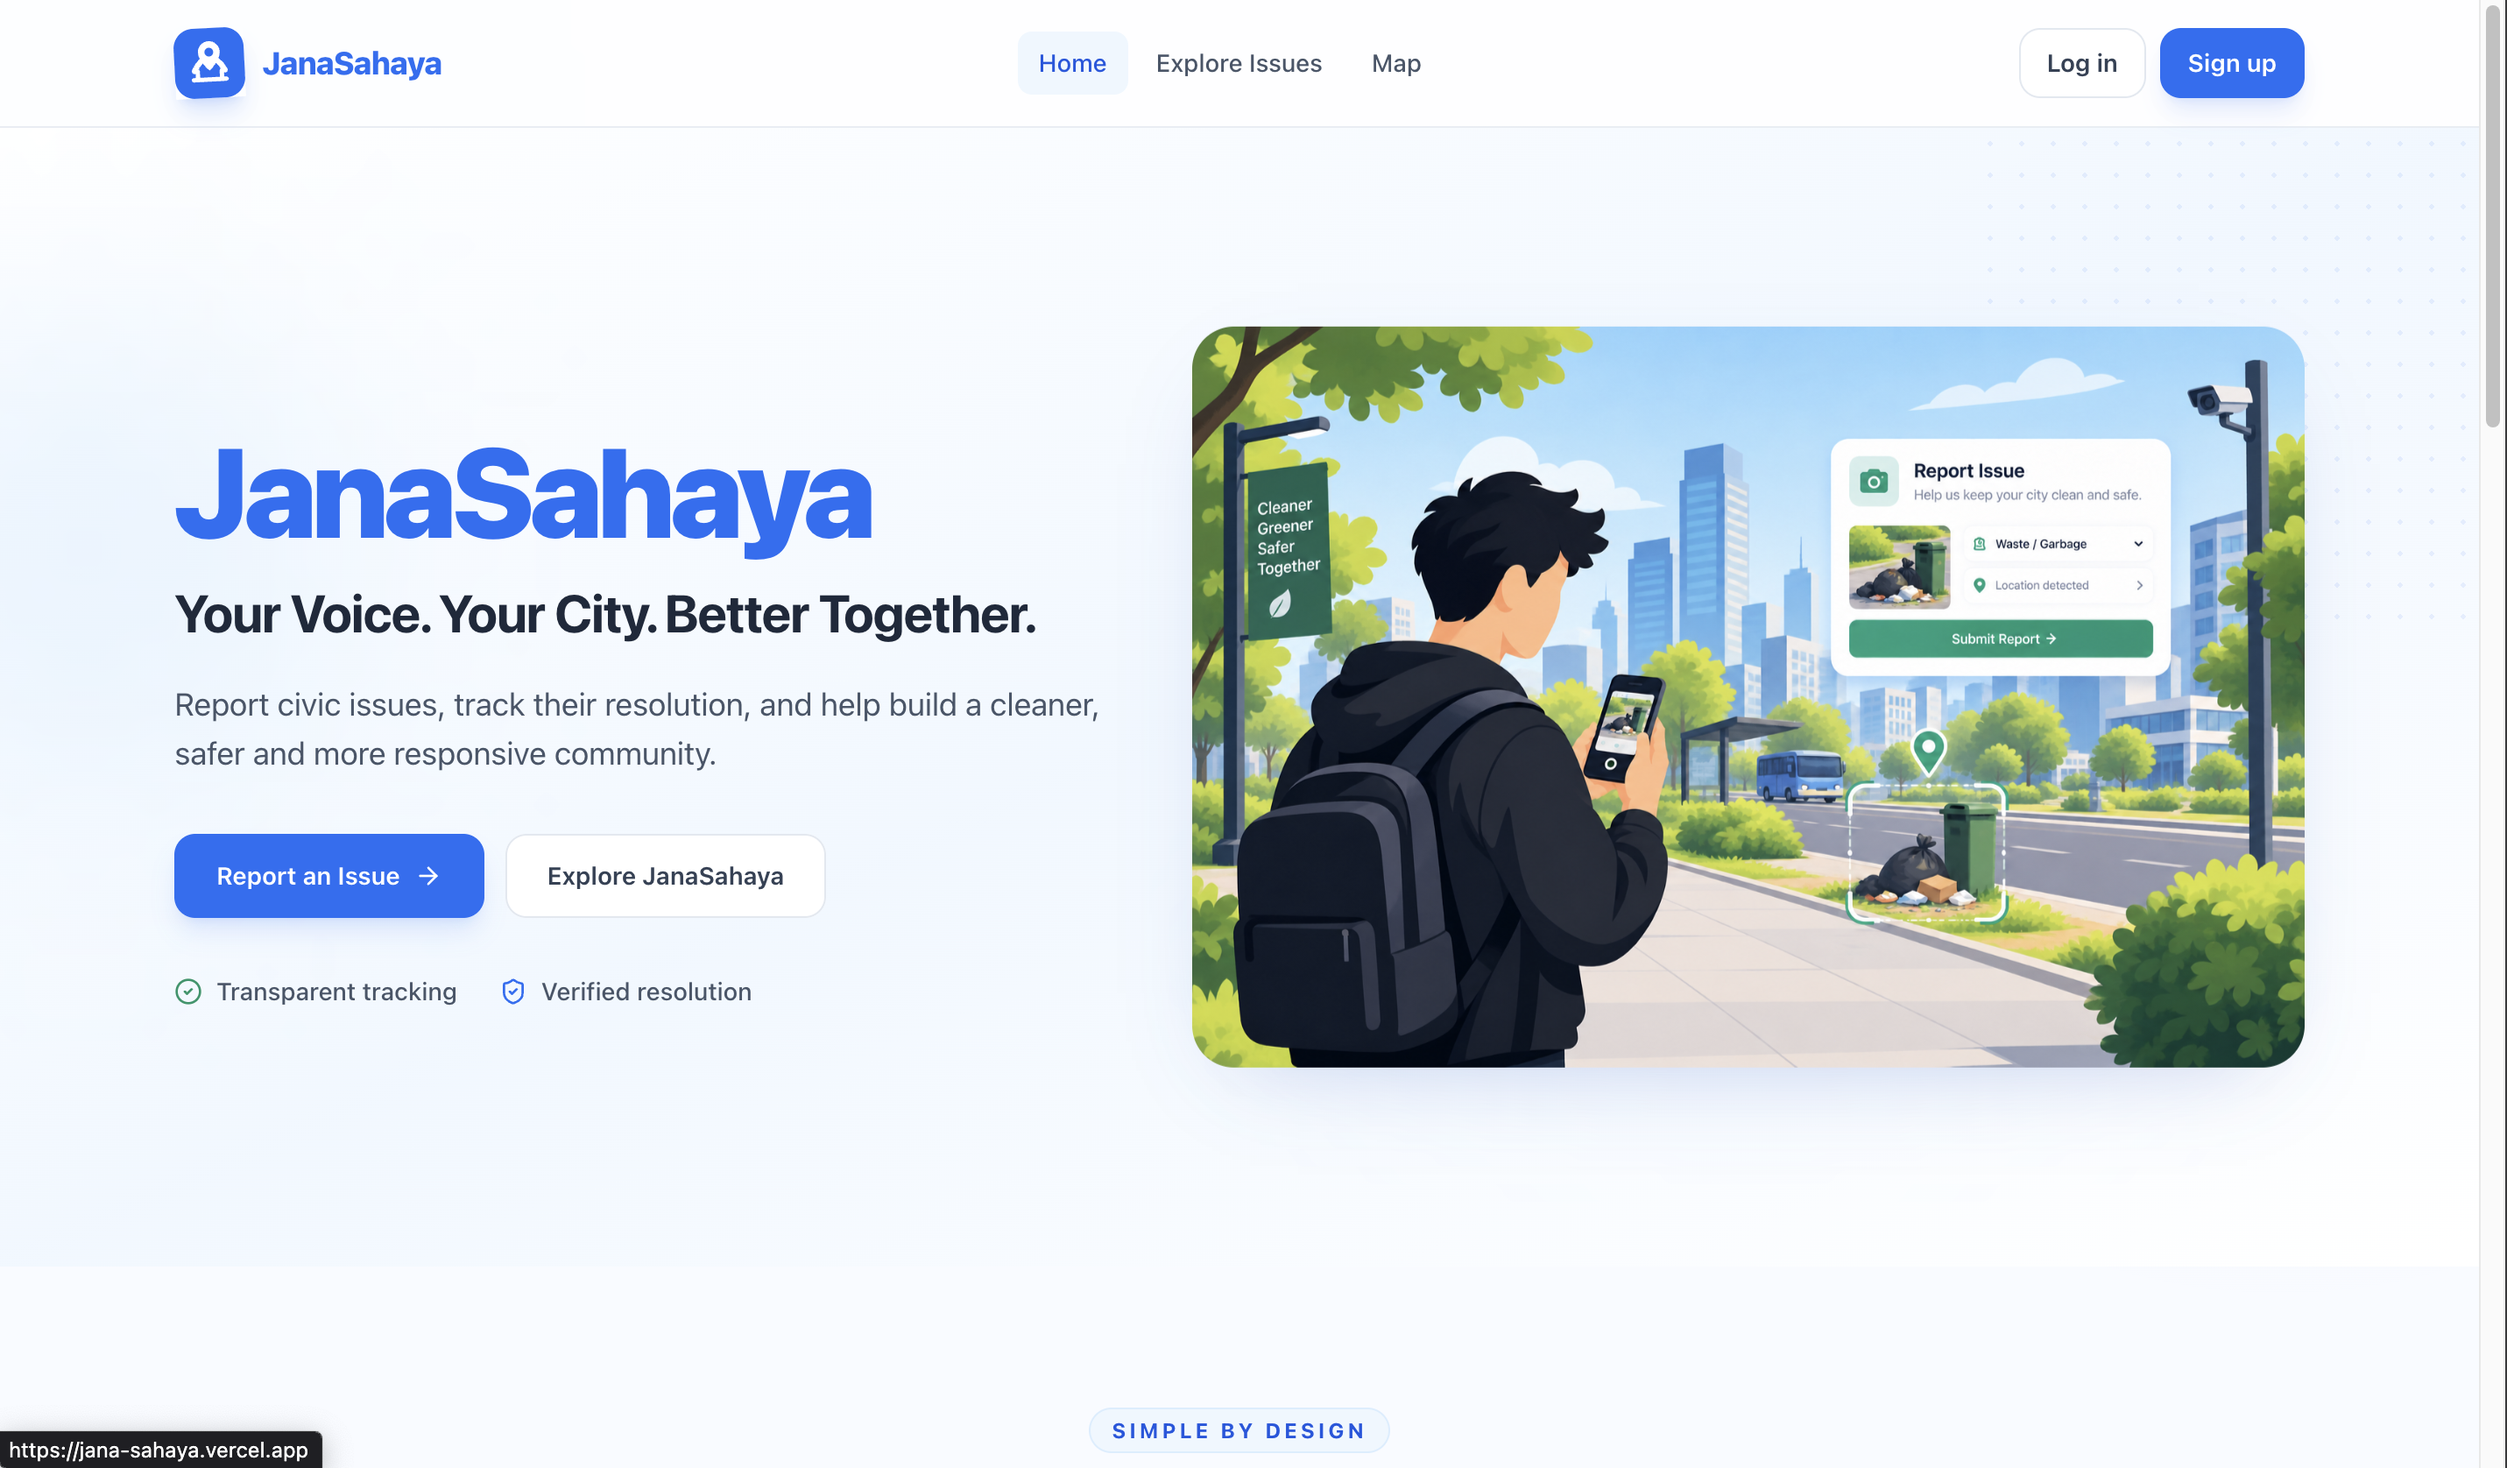
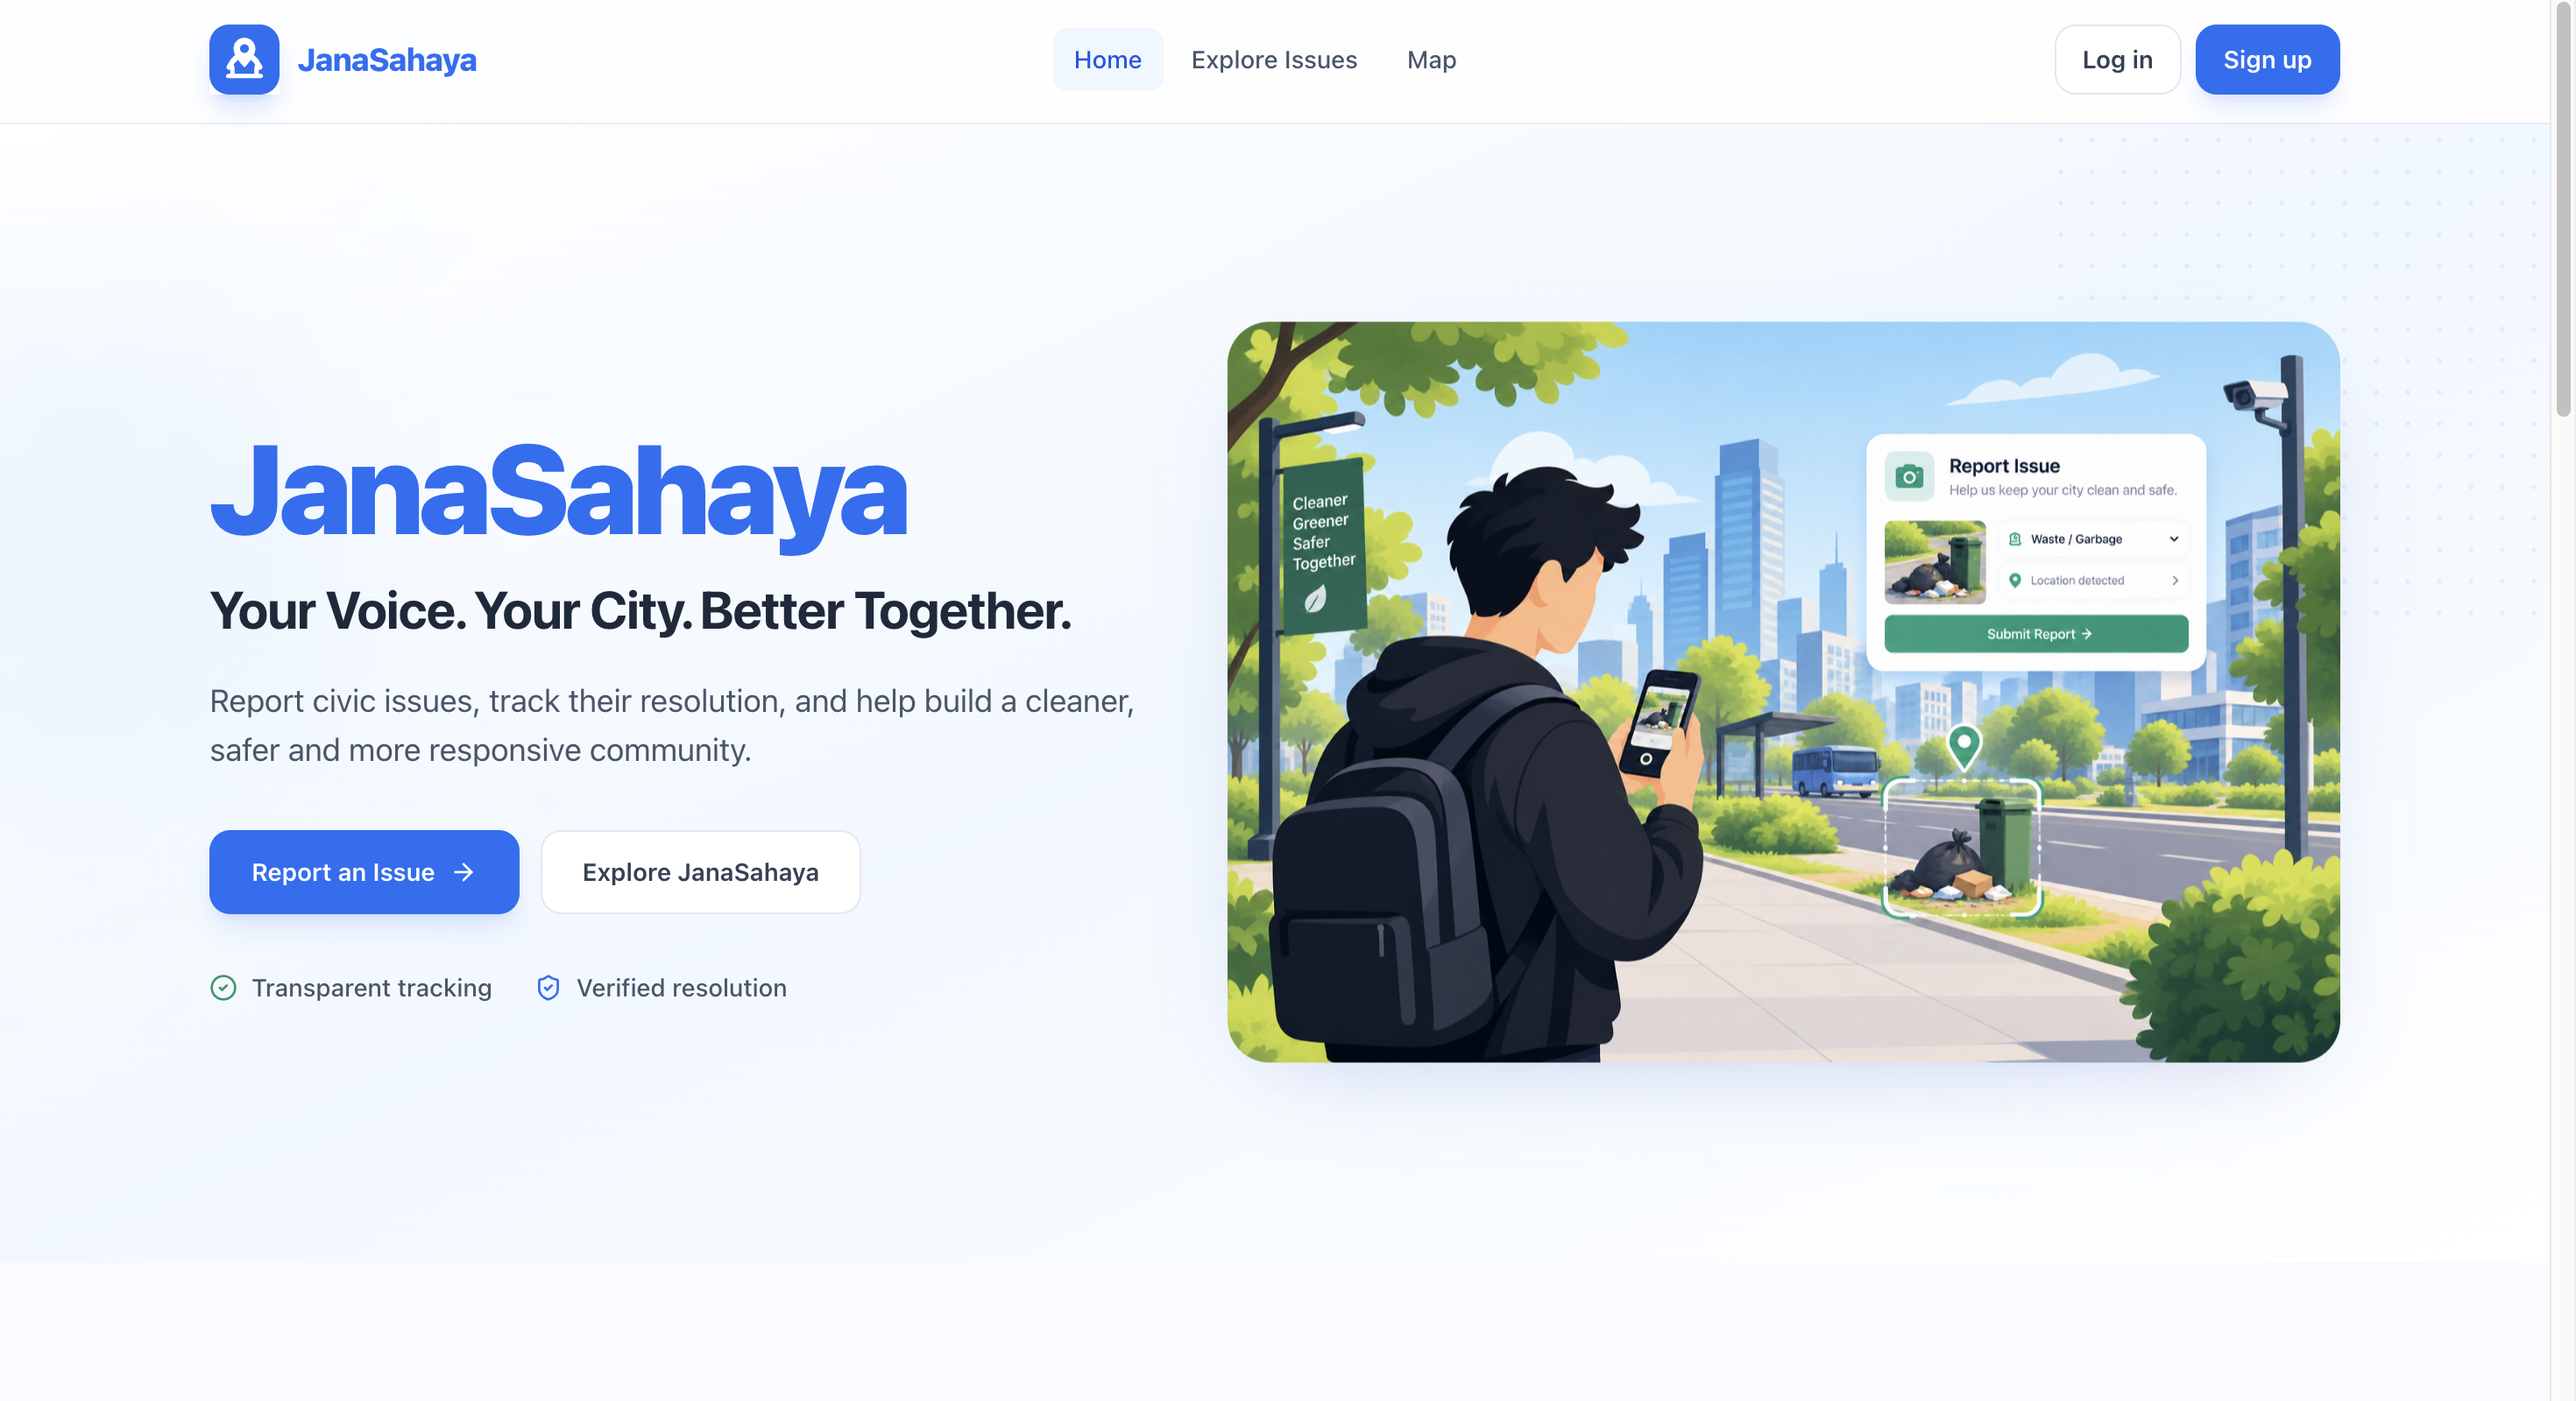
docs: refresh README presentation and hero image

diff --git a/README.md b/README.md
@@ -6,13 +6,29 @@
 
 JanaSahaya connects citizens, municipal officers, and administrators in one accountable workflow—from a geotagged report to evidence-backed resolution and citizen verification.
 
-[![React](https://img.shields.io/badge/React-18-61DAFB?logo=react&logoColor=white)](https://react.dev/)
-[![Node.js](https://img.shields.io/badge/Node.js-22-339933?logo=node.js&logoColor=white)](https://nodejs.org/)
-[![Express](https://img.shields.io/badge/Express-4-000000?logo=express&logoColor=white)](https://expressjs.com/)
-[![MySQL](https://img.shields.io/badge/MySQL-8-4479A1?logo=mysql&logoColor=white)](https://www.mysql.com/)
-[![Socket.IO](https://img.shields.io/badge/Socket.IO-4-010101?logo=socket.io&logoColor=white)](https://socket.io/)
-[![OpenAPI](https://img.shields.io/badge/OpenAPI-3.0.3-6BA539?logo=openapiinitiative&logoColor=white)](backend/docs/openapi.yaml)
-[![Tests](https://img.shields.io/badge/tests-43%20passing-brightgreen)](#testing)
+<p align="center">
+  <a href="https://react.dev/">
+    <img src="https://img.shields.io/badge/React-18-61DAFB?style=for-the-badge&logo=react&logoColor=white" alt="React 18" />
+  </a>
+  <a href="https://nodejs.org/">
+    <img src="https://img.shields.io/badge/Node.js-22-339933?style=for-the-badge&logo=nodedotjs&logoColor=white" alt="Node.js 22" />
+  </a>
+  <a href="https://expressjs.com/">
+    <img src="https://img.shields.io/badge/Express-4-000000?style=for-the-badge&logo=express&logoColor=white" alt="Express 4" />
+  </a>
+  <a href="https://www.mysql.com/">
+    <img src="https://img.shields.io/badge/MySQL-8-4479A1?style=for-the-badge&logo=mysql&logoColor=white" alt="MySQL 8" />
+  </a>
+  <a href="https://socket.io/">
+    <img src="https://img.shields.io/badge/Socket.IO-4-010101?style=for-the-badge&logo=socketdotio&logoColor=white" alt="Socket.IO 4" />
+  </a>
+  <a href="backend/docs/openapi.yaml">
+    <img src="https://img.shields.io/badge/OpenAPI-3.0.3-6BA539?style=for-the-badge&logo=openapiinitiative&logoColor=white" alt="OpenAPI 3.0.3" />
+  </a>
+  <a href="#testing">
+    <img src="https://img.shields.io/badge/Tests-43%20Passing-brightgreen?style=for-the-badge&logo=vitest&logoColor=white" alt="43 Tests Passing" />
+  </a>
+</p>
 
 **[Live application](https://jana-sahaya.vercel.app)** · **[API documentation](https://janasahaya-production.up.railway.app/api/docs)** · **[API status](https://janasahaya-production.up.railway.app/ready)**
 
@@ -66,17 +82,29 @@ This is more than a CRUD ticketing app. It models the difficult parts of a real 
 ## End-to-end workflow
 
 ```mermaid
+
 flowchart LR
+
     A[Citizen reports issue] --> B[Duplicate check]
+
     B --> C[Department routing]
+
     C --> D[Priority + SLA]
+
     D --> E[Officer claims issue]
+
     E --> F[Work in progress]
+
     F --> G[Evidence-backed resolution]
+
     G --> H{Citizen verification}
+
     H -->|Confirmed| I[Closed]
+
     H -->|Still unresolved| J[Reopened]
+
     J --> E
+
 ```
 
 The backend enforces every transition and the role allowed to perform it. Officers are restricted to their department; administrators can triage and reassign; citizens cannot bypass the lifecycle.
@@ -94,15 +122,25 @@ The backend enforces every transition and the role allowed to perform it. Office
 ## System design
 
 ```mermaid
+
 flowchart TB
+
     UI[React + Vite SPA] -->|REST / JWT| API[Express API]
+
     UI <-->|Socket.IO| RT[Realtime gateway]
+
     API --> AUTH[Auth + RBAC middleware]
+
     API --> SVC[Service layer]
+
     RT --> SVC
+
     SVC --> REPO[Repository layer]
+
     REPO --> DB[(MySQL 8)]
+
     SVC --> MEDIA[(Validated image storage)]
+
 ```
 
 The codebase separates HTTP controllers, business services, and SQL repositories. The schema contains 22 relational tables for identities, roles, issues, assignments, status history, resolutions, interactions, SLA data, notifications, reports, and audit records.
@@ -122,12 +160,19 @@ The codebase separates HTTP controllers, business services, and SQL repositories
 ## Security and reliability
 
 - Role-based access control with department-level authorization for officers.
+
 - Refresh-token rotation, SHA-256 token storage, family-based reuse detection, and session revocation.
+
 - Transactional issue creation, claiming, resolution, assignment, and citizen verification.
+
 - Strict lifecycle validation prevents invalid or out-of-order status changes.
+
 - Rate limits cover authentication, registration, password changes, reports, comments, and interactions.
+
 - Image uploads use MIME and extension allow-lists, blocked dangerous extensions, random filenames, size/count limits, and magic-byte verification.
+
 - Helmet headers, restrictive CORS, sensitive log redaction, parameterized SQL, and centralized error handling.
+
 - Separate `/health` and database-aware `/ready` probes support deployment monitoring.
 
 ## Run locally
@@ -137,11 +182,17 @@ The codebase separates HTTP controllers, business services, and SQL repositories
 Prerequisites: Docker with Compose.
 
 ```bash
+
 git clone https://github.com/alive7z/JanaSahaya.git
+
 cd JanaSahaya
+
 cp .env.example .env
+
 # Replace every CHANGE_ME value, then:
+
 docker compose up -d --build
+
 ```
 
 The frontend is available at `http://localhost:8080`. MySQL and the API remain isolated inside the Compose network, and named volumes preserve database data and uploaded evidence.
@@ -151,18 +202,29 @@ The frontend is available at `http://localhost:8080`. MySQL and the API remain i
 Prerequisites: Node.js 22+ and MySQL 8+.
 
 ```bash
+
 # Terminal 1 — API
+
 cd backend
+
 cp .env.example .env
+
 npm ci
+
 npm run db:setup
+
 npm run dev                    # http://localhost:4000
 
 # Terminal 2 — client
+
 cd frontend
+
 cp .env.example .env
+
 npm ci
+
 npm run dev                    # http://localhost:5173
+
 ```
 
 The Vite development server proxies `/api`, `/uploads`, and `/socket.io` to the backend.
@@ -173,6 +235,7 @@ The Vite development server proxies `/api`, `/uploads`, and `/socket.io` to the 
 | --- | --- |
 | Database | `DB_HOST`, `DB_PORT`, `DB_NAME`, `DB_USER`, `DB_PASSWORD` |
 | Authentication | `JWT_ACCESS_SECRET`, `JWT_REFRESH_SECRET` |
+| Report OTP | `OTP_SECRET`, `SMS_PROVIDER`, plus Twilio or webhook credentials in production |
 | Browser origin | `CLIENT_ORIGIN` |
 | Bootstrap accounts | `ADMIN_EMAIL`, `ADMIN_PASSWORD`, `OFFICER_EMAIL`, `OFFICER_PASSWORD` |
 | Optional uploads/demo | `UPLOAD_DIR`, `MAX_UPLOAD_MB`, `ENABLE_DEMO_ACCOUNTS`, `DEMO_*` |
@@ -184,6 +247,7 @@ Use the checked-in [root environment template](.env.example) for Docker or the [
 The live deployment exposes restricted demo accounts from the login screen:
 
 - **Citizen:** `citizen@janasahaya.demo`
+
 - **Administrator:** `admin@janasahaya.demo`
 
 The demo administrator can explore operational flows and manage demo-citizen issues, but the API blocks changes to users, roles, departments, categories, and system configuration. Credentials are supplied by deployment configuration rather than committed source code.
@@ -193,58 +257,97 @@ The demo administrator can explore operational flows and manage demo-citizen iss
 Swagger UI is available at [`/api/docs`](https://janasahaya-production.up.railway.app/api/docs), and the source specification lives in [`backend/docs/openapi.yaml`](backend/docs/openapi.yaml). The specification documents 54 operations across authentication, issues, comments, dashboards, administration, analytics, notifications, and metadata.
 
 ```http
+
 POST   /api/v1/issues/check-duplicates
+
 POST   /api/v1/issues
+
 PATCH  /api/v1/issues/:id/accept
+
 POST   /api/v1/issues/:id/resolve
+
 POST   /api/v1/issues/:id/verify
+
 GET    /api/v1/analytics/sla
+
 GET    /api/v1/admin/audit-logs
+
 ```
 
 All responses use a consistent envelope; request validation and error mapping are centralized in middleware.
 
 ## Testing
 
-The repository currently passes **43 automated tests**: 20 backend unit tests and 23 frontend component/utility tests.
+The repository currently passes **47 automated tests**: 24 backend unit tests and 23 frontend component/utility tests.
 
 ```bash
+
 cd backend
+
 npm test                       # scoring, geospatial, duplicate, lifecycle rules
+
 npm run test:smoke             # full role-based flow; requires a running stack
+
 npm run bench                  # load benchmark; requires a running API
 
 cd ../frontend
+
 npm test                       # component and utility tests
+
 npm run build                  # production bundle verification
+
 ```
 
 The backend smoke suite exercises registration, reporting, duplicate checks, permissions, claiming, resolution, verification, and administrative flows against a live server.
 
+New reports require an exact map location and a verified mobile number. In local development, leave `SMS_PROVIDER=console`; the report form shows the development OTP returned by the API. Production deliberately refuses to start with console delivery—configure either Twilio or an HTTPS webhook using the SMS variables documented in `backend/.env.example`.
+
 ## Project structure
 
 ```text
+
 JanaSahaya/
+
 ├── backend/
+
 │   ├── docs/openapi.yaml       # API contract
+
 │   ├── src/
+
 │   │   ├── controllers/        # HTTP boundary
+
 │   │   ├── services/           # business rules and transactions
+
 │   │   ├── repositories/       # parameterized SQL access
+
 │   │   ├── middleware/         # auth, validation, limits, uploads
+
 │   │   ├── sockets/            # realtime rooms and events
+
 │   │   └── db/                 # schema, migrations, idempotent seed
+
 │   └── tests/                  # unit, smoke, and load suites
+
 ├── frontend/
+
 │   └── src/
+
 │       ├── pages/              # citizen, officer, and admin experiences
+
 │       ├── components/         # maps, issue workflow, shared UI
+
 │       ├── services/           # REST client and Socket.IO integration
+
 │       └── context/            # authentication and realtime state
+
 ├── deploy/                     # reverse-proxy configuration
+
 ├── docs/screenshots/           # product tour assets
+
 ├── docker-compose.yml
+
 └── DEPLOYMENT.md
+
 ```
 
 ## Deployment
@@ -252,10 +355,15 @@ JanaSahaya/
 The live system uses Vercel for the React SPA and Railway for the Dockerized API and MySQL database. The repository also supports a single-host deployment with Docker Compose, Nginx TLS termination, health checks, and persistent database/upload volumes.
 
 ```text
+
 Browser ──HTTPS──> Vercel SPA
+
    │
+
    ├── REST + secure refresh cookie ──> Railway API ──> Railway MySQL
+
    └── Socket.IO ─────────────────────> Railway API
+
 ```
 
 Deployment settings are documented by the checked-in environment templates and container configuration; no credentials are stored in the repository.
@@ -267,5 +375,7 @@ The next scaling steps are intentionally clear: move evidence images to object s
 ---
 
 <div align="center">
+
 Built to make civic work visible, accountable, and verifiable.
+
 </div>
